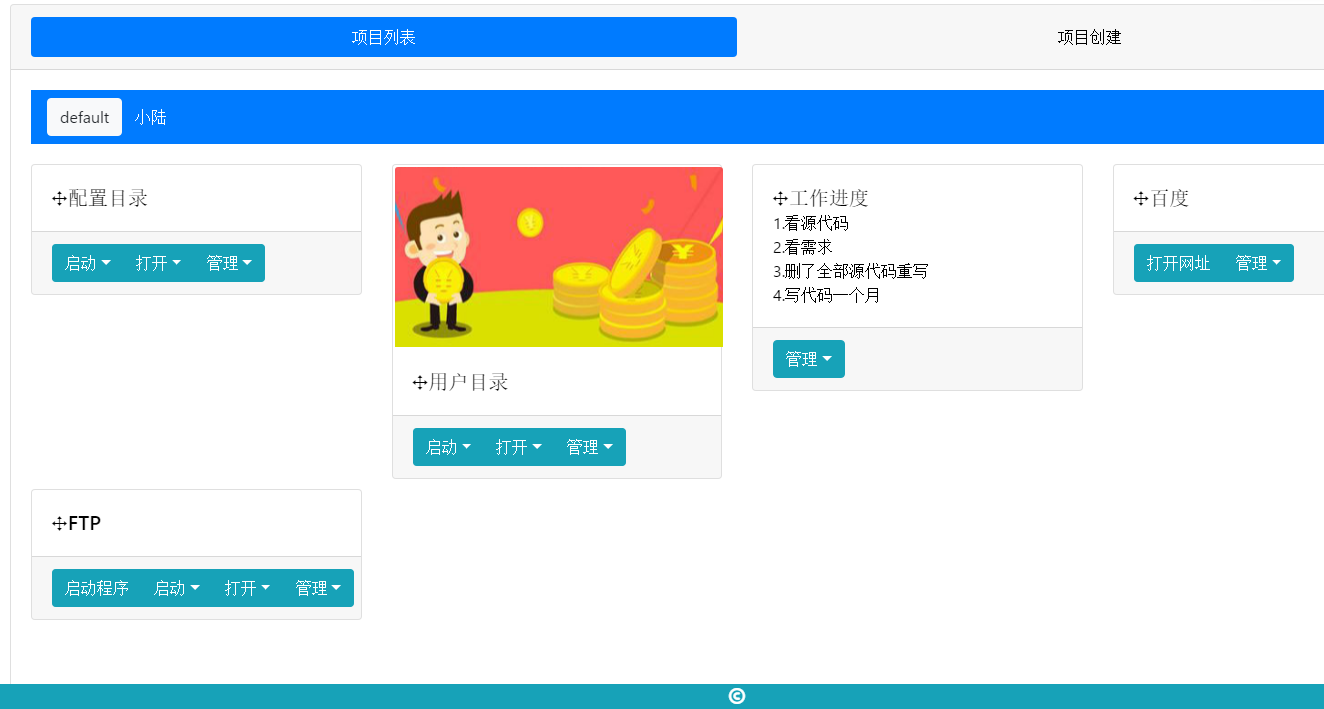
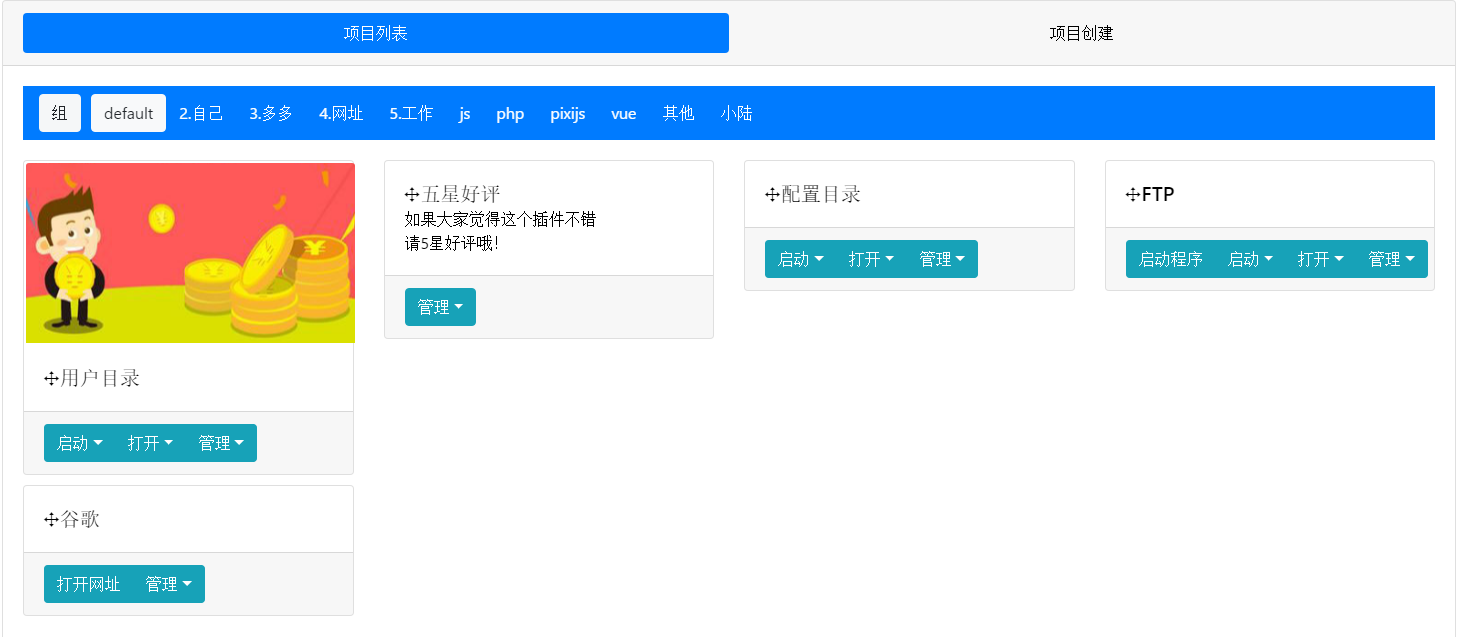
1

diff --git a/README.md b/README.md
@@ -17,15 +17,15 @@
 
 # 联系
 
-- 有任何问题联系 QQ：[527528007](http://sighttp.qq.com/authd?IDKEY=718ba7bf0e155f2ca65d5fc7646c324d9e7f2a8a8f2f20f9)    
-- 在线状态：![在线状态](https://wpa.qq.com/imgd?IDKEY=718ba7bf0e155f2ca65d5fc7646c324d9e7f2a8a8f2f20f9&pic=53)     
-- QQ群：[50470895](//shang.qq.com/wpa/qunwpa?idkey=c79ed4cc09a3082766690d2ea3a5f5674cb1b02d4652b9b5ef421e3f190d215e)    
+- 有任何问题联系 QQ：[527528007](http://sighttp.qq.com/authd?IDKEY=718ba7bf0e155f2ca65d5fc7646c324d9e7f2a8a8f2f20f9)
+- 在线状态：![在线状态](https://wpa.qq.com/imgd?IDKEY=718ba7bf0e155f2ca65d5fc7646c324d9e7f2a8a8f2f20f9&pic=53)
+- QQ 群：[50470895](//shang.qq.com/wpa/qunwpa?idkey=c79ed4cc09a3082766690d2ea3a5f5674cb1b02d4652b9b5ef421e3f190d215e)
 
 ## 更新
 
 - 2018-7-6
-
-修复初始化错误，导致无法正常运行（已经安装但是无法运行的用户，把配置目录下的 a031.json 打开看下，如果是它是一个空数组，删了）    
+- 修复组的排序，default 强制排在第一，然后是首字母按小到大，然后是字母。
+- 修复初始化错误，导致无法正常运行（已经安装但是无法运行的用户，把配置目录下的 a031.json 打开看下，如果是它是一个空数组，删了）
 
 - 2018-7-5
   a031.json
